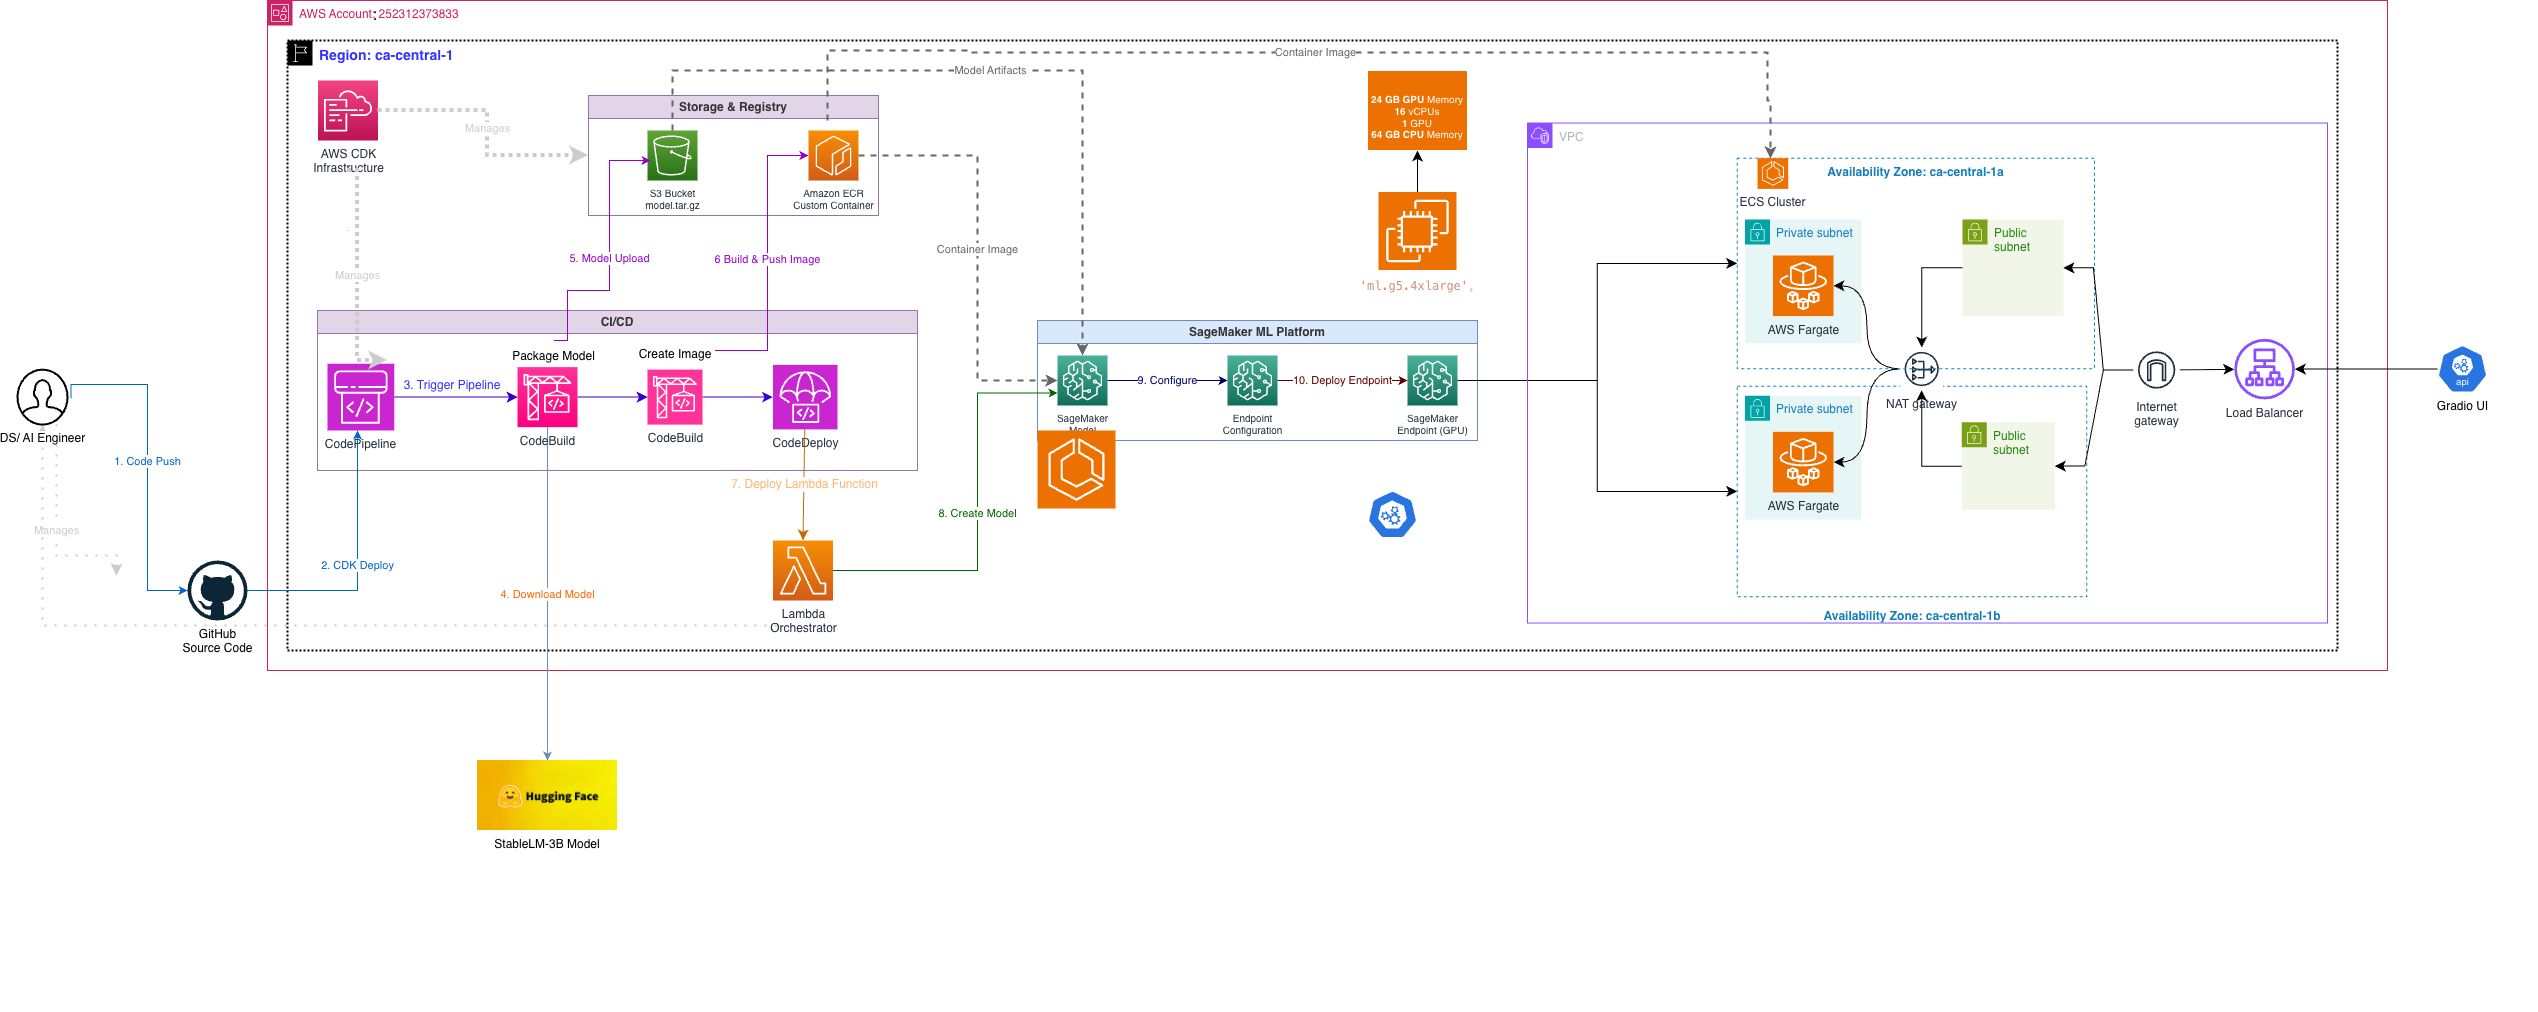
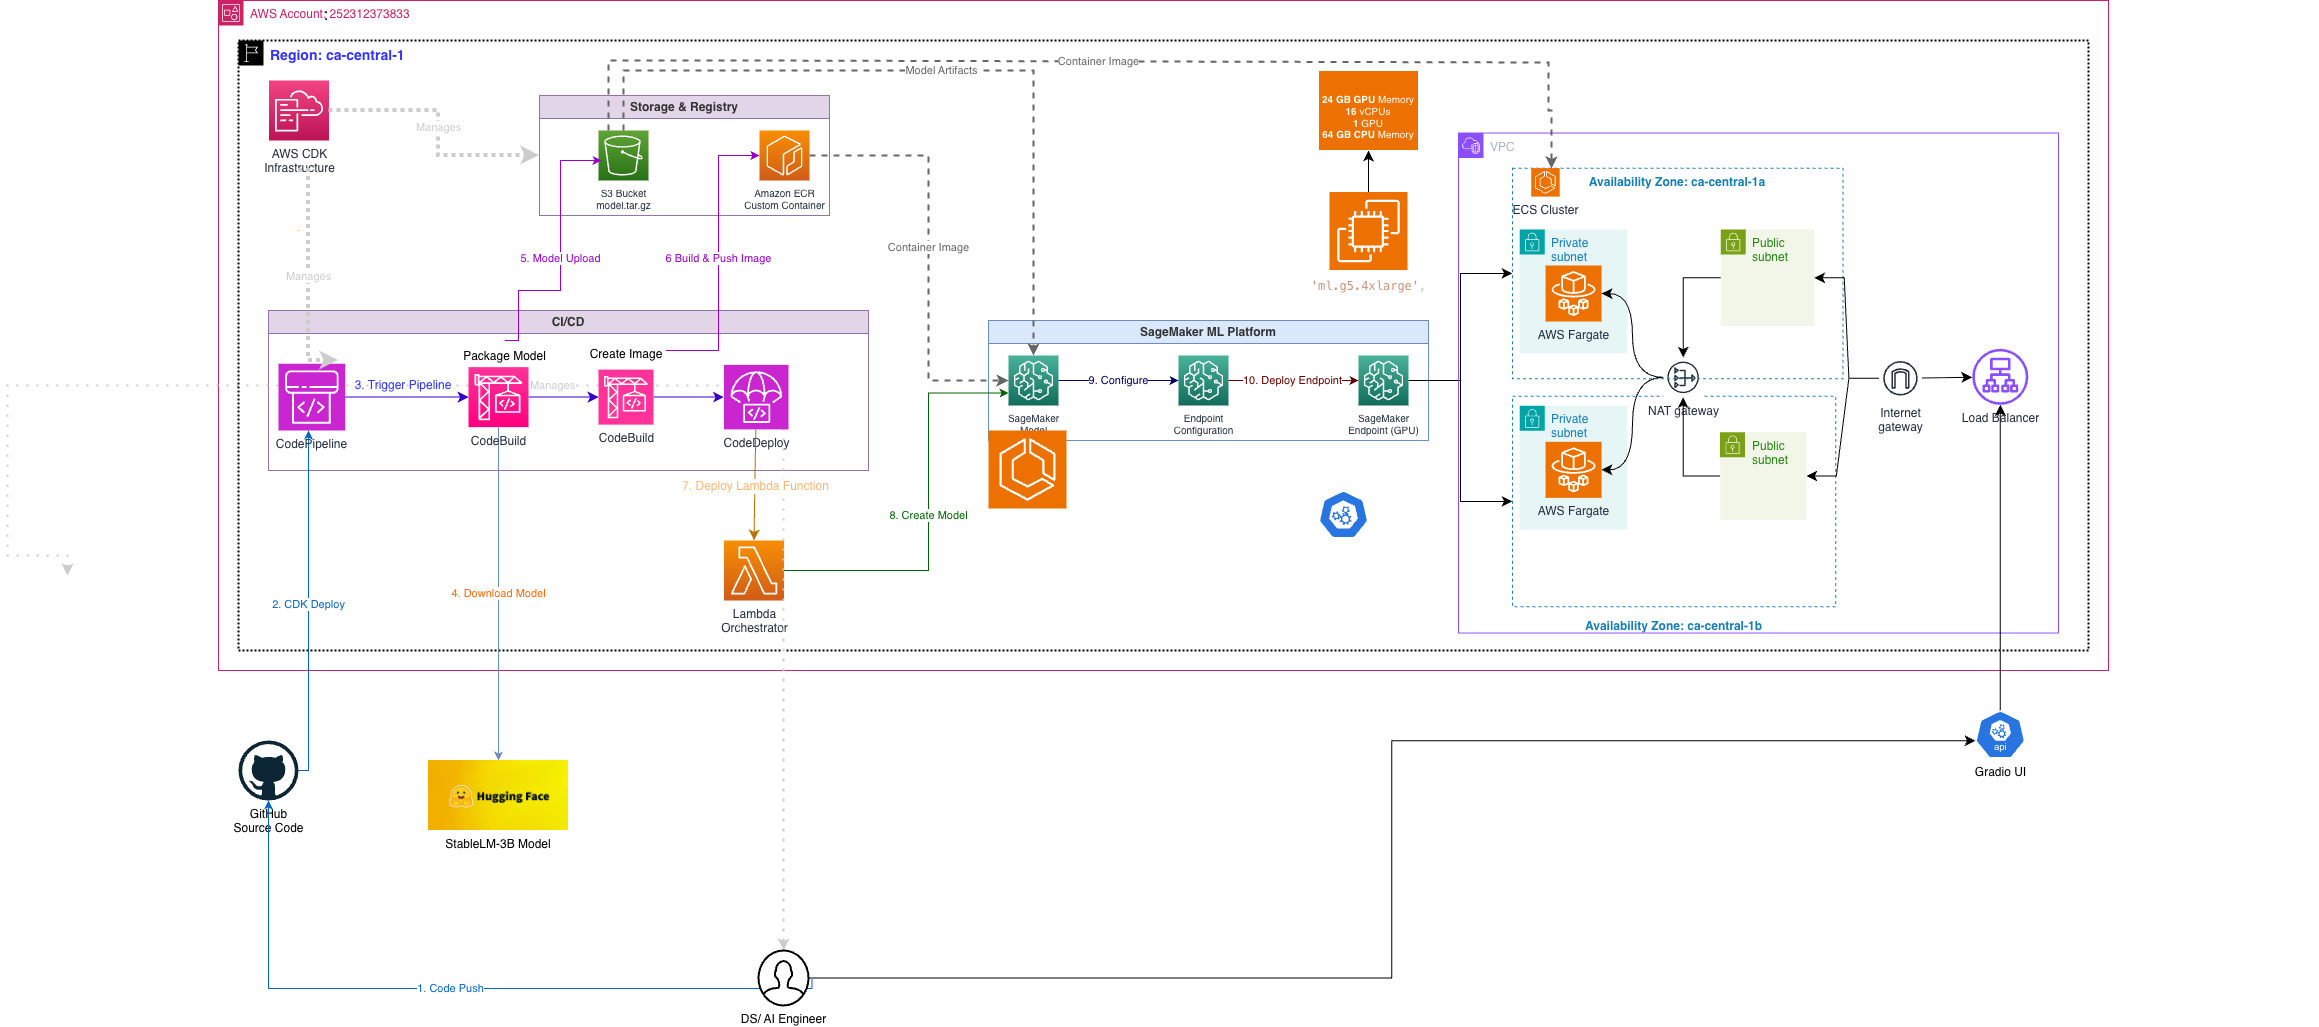
new diagram

diff --git a/README.md b/README.md
@@ -11,7 +11,7 @@ It is a **real, deployable LLM system** designed for scalability, and reliabilit
 
 ## 🏗 System Architecture
 
-![System Architecture Diagram](llm_system_diagram.png)
+![System Architecture Diagram](llm_system_architecture.png)
 
 ## 🚀 What This System Does
 
